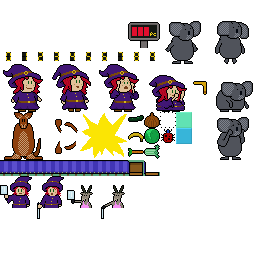
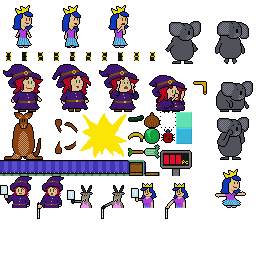
princess graphics in fishing, chopping, and boomerang

diff --git a/src/game/battle/battle_boomerang.c b/src/game/battle/battle_boomerang.c
@@ -37,6 +37,7 @@ struct battle_boomerang {
   double rang_speed;
   
   struct player {
+    int who; // 0,1: My index in this list.
     int human; // 0 for CPU, otherwise the playerid (1,2).
     int srcx,srcy;
     int dstx;
@@ -93,12 +94,12 @@ static void player_init_dot(void *ctx,struct player *player) {
   player->reacting=0;
 }
 
-// Dot, but on the right side facing left, and controlled by player 2.
+// Princess on the right side facing left, and controlled by player 2.
 static void player_init_altdot(void *ctx,struct player *player) {
   player->human=2;
   player->face=FACE_IDLE;
   player->srcx=0;
-  player->srcy=64;
+  player->srcy=0;
   player->dstx=228;
   player->xform=EGG_XFORM_XREV;
   player->gravity=0.0;
@@ -107,12 +108,12 @@ static void player_init_altdot(void *ctx,struct player *player) {
   player->reacting=0;
 }
 
-// CPU player on the left side. TODO graphics
+// CPU player on the left side.
 static void player_init_princess(void *ctx,struct player *player) {
   player->human=0;
   player->face=FACE_IDLE;
-  player->srcx=160;
-  player->srcy=16;
+  player->srcx=0;
+  player->srcy=0;
   player->dstx=44;
   player->xform=0;
   player->gravity=0.0;
@@ -174,6 +175,8 @@ static void *_boomerang_init(
   CTX->grab_time=GRAB_TIME_INITIAL;
   CTX->rang_speed=RANG_SPEED_INITIAL;
   
+  CTX->playerv[0].who=0;
+  CTX->playerv[1].who=1;
   switch (CTX->players) {
     case NS_players_cpu_cpu: {
         player_init_princess(ctx,CTX->playerv+0);
@@ -217,7 +220,12 @@ static void player_set_face(struct player *player,int face) {
   if (player->face==face) return;
   if (player->face==FACE_HURT) return; // No going back from HURT.
   player->face=face;
-  if (player->human) switch (face) {
+  if ((player->human==2)||(!player->human&&!player->who)) switch (face) { // Princess: Player 2, or CPU on the left side.
+    case FACE_IDLE: player->srcx=0; player->srcy=0; break;
+    case FACE_JUMP: player->srcx=48; player->srcy=0; break;
+    case FACE_DUCK: player->srcx=208; player->srcy=160; break;
+    case FACE_HURT: player->srcx=96; player->srcy=0; break;
+  } else if (player->human) switch (face) {
     case FACE_IDLE: player->srcx=0; player->srcy=64; break;
     case FACE_JUMP: player->srcx=48; player->srcy=64; break;
     case FACE_DUCK: player->srcx=144; player->srcy=64; break;

diff --git a/src/game/battle/battle_fishing.c b/src/game/battle/battle_fishing.c
@@ -27,6 +27,8 @@ struct battle_fishing {
   void *userdata;
   int outcome;
   uint8_t dot_xform,cat_xform; // Natural orientation is rightward.
+  int dot_srcx,dot_srcy;
+  int cat_srcx,cat_srcy;
   int dot_mass,cat_mass;
   int dot_mass_disp,cat_mass_disp; // Displayed mass. Steps by 1 kg/frame when out of sync (managed at render).
   struct fish {
@@ -83,6 +85,37 @@ static void *_fishing_init(
   CTX->userdata=userdata;
   CTX->cat_xform=EGG_XFORM_XREV; // Face each other initially.
   CTX->outcome=-2;
+  
+  /* Prepare images.
+   * We have just one image per player, it never changes.
+   */
+  switch (CTX->players) {
+    case NS_players_cpu_cpu: { // Princess, Cat
+        CTX->dot_srcx=192;
+        CTX->dot_srcy=64;
+        CTX->cat_srcx=48;
+        CTX->cat_srcy=0;
+      } break;
+    case NS_players_cpu_man: { // Cat, Dot
+        CTX->dot_srcx=48;
+        CTX->dot_srcy=0;
+        CTX->cat_srcx=0;
+        CTX->cat_srcy=0;
+      } break;
+    case NS_players_man_cpu: { // Dot, Cat
+        CTX->dot_srcx=0;
+        CTX->dot_srcy=0;
+        CTX->cat_srcx=48;
+        CTX->cat_srcy=0;
+      } break;
+    case NS_players_man_man: { // Dot, Princess
+        CTX->dot_srcx=0;
+        CTX->dot_srcy=0;
+        CTX->cat_srcx=192;
+        CTX->cat_srcy=64;
+      } break;
+    default: _fishing_del(ctx); return 0;
+  }
   
   /* Prepare the decision list.
    * We decide in advance how many mistakes the cat will make, directly proportionate to the handicap.
@@ -368,8 +401,8 @@ static void _fishing_render(void *ctx) {
   fishing_render_scale(CAT_X+48+32,GROUND_LEVEL-32,CTX->cat_mass_disp);
   const int playerw=48;
   const int playerh=48;
-  graf_decal_xform(&g.graf,DOT_X,GROUND_LEVEL-playerh,0,0,playerw,playerh,CTX->dot_xform);
-  graf_decal_xform(&g.graf,CAT_X,GROUND_LEVEL-playerh,playerw,0,playerw,playerh,CTX->cat_xform);
+  graf_decal_xform(&g.graf,DOT_X,GROUND_LEVEL-playerh,CTX->dot_srcx,CTX->dot_srcy,playerw,playerh,CTX->dot_xform);
+  graf_decal_xform(&g.graf,CAT_X,GROUND_LEVEL-playerh,CTX->cat_srcx,CTX->cat_srcy,playerw,playerh,CTX->cat_xform);
   struct fish *fish=CTX->fishv;
   int i=CTX->fishc;
   for (;i-->0;fish++) {

diff --git a/src/game/battle/battle_chopping.c b/src/game/battle/battle_chopping.c
@@ -84,8 +84,13 @@ static void player_init(void *ctx,struct player *player,int y,int human) {
   player->texid_output=egg_texture_new();
   egg_texture_load_raw(player->texid_output,16,32,64,0,0);
   egg_texture_clear(player->texid_output);
-  if (human) player->srcx=0;
-  else player->srcx=64;
+  if (human) {
+    if (player->who==0) player->srcx=0; // Left Human = Dot
+    else player->srcx=128; // Right Human = Princess
+  } else {
+    if (player->who==0) player->srcx=128; // Left CPU = Princess
+    else player->srcx=64; // Right CPU = Goat
+  }
   player->srcy=176;
   player->chopping=0;
   player->blackout=1;
@@ -386,7 +391,7 @@ static void player_render(void *ctx,struct player *player) {
   graf_decal(&g.graf,PLEFTX,player->y-40,player->srcx+(player->chopping?32:0),player->srcy,32,48);
   
   // Score indicator.
-  graf_decal(&g.graf,XEND+40,player->y-24,128,16,32,32);
+  graf_decal(&g.graf,XEND+40,player->y-24,160,144,32,32);
   graf_tile(&g.graf,XEND+46,player->y-9,0x30+(player->score/100)%10,0);
   graf_tile(&g.graf,XEND+52,player->y-9,0x30+(player->score/ 10)%10,0);
   graf_tile(&g.graf,XEND+58,player->y-9,0x30+(player->score    )%10,0);

diff --git a/README.md b/README.md
@@ -26,7 +26,7 @@ Requires [Egg](https://github.com/aksommerville/egg2) to build.
 - [x] Princess battle: Strings not inserted in welcome message.
 - [ ] Princess battle: Took a heart from me instead of killing her.
 - [x] Monsters don't seem interested in the Princess. Did I forget to update that? ...yep forgot.
-- [ ] Add Princess graphics to existing games. Exterminating doesn't need it.
+- [x] Add Princess graphics to existing games. Exterminating doesn't need it.
 - [ ] Door transitions. Fade to black? Spotlight?
 - [ ] Tree stories. These don't go in regular inventory. Need a list of them somewhere in the pause modal, where you can replay.
 - [x] When multiple dialogue modals, there are multiple blotters. Can we have just one blotter, and magically put it at the right layer? (eg "Not enough gold" at a shop)
@@ -59,6 +59,7 @@ Requires [Egg](https://github.com/aksommerville/egg2) to build.
 - [ ] Boomerang: Drop the other rang after one collides.
 - [ ] Boomerang: Speed it up a little? Make the koala lose sooner.
 - [ ] Chopping: Start with the belt populated. Too much lead time as is.
+- [ ] Chopping: Randomize CPU play a little. At middling difficulty, Princess and Goat *always* end in a tie.
 
 - For exploration some time in the uncertain future.
 - [ ] There's room for badges under the currency counters in the inventory vellum. Maybe for the flowers? Or keys, something like that.
@@ -100,6 +101,7 @@ Requires [Egg](https://github.com/aksommerville/egg2) to build.
 - - [ ] Book of sheet music.
 - - [ ] Videos.
 - - [ ] Book of Cheating. Maybe a digital edition?
+- - [ ] Big banners, the kind that roll up into a case.
 
 ## Quests and Prizes
 
